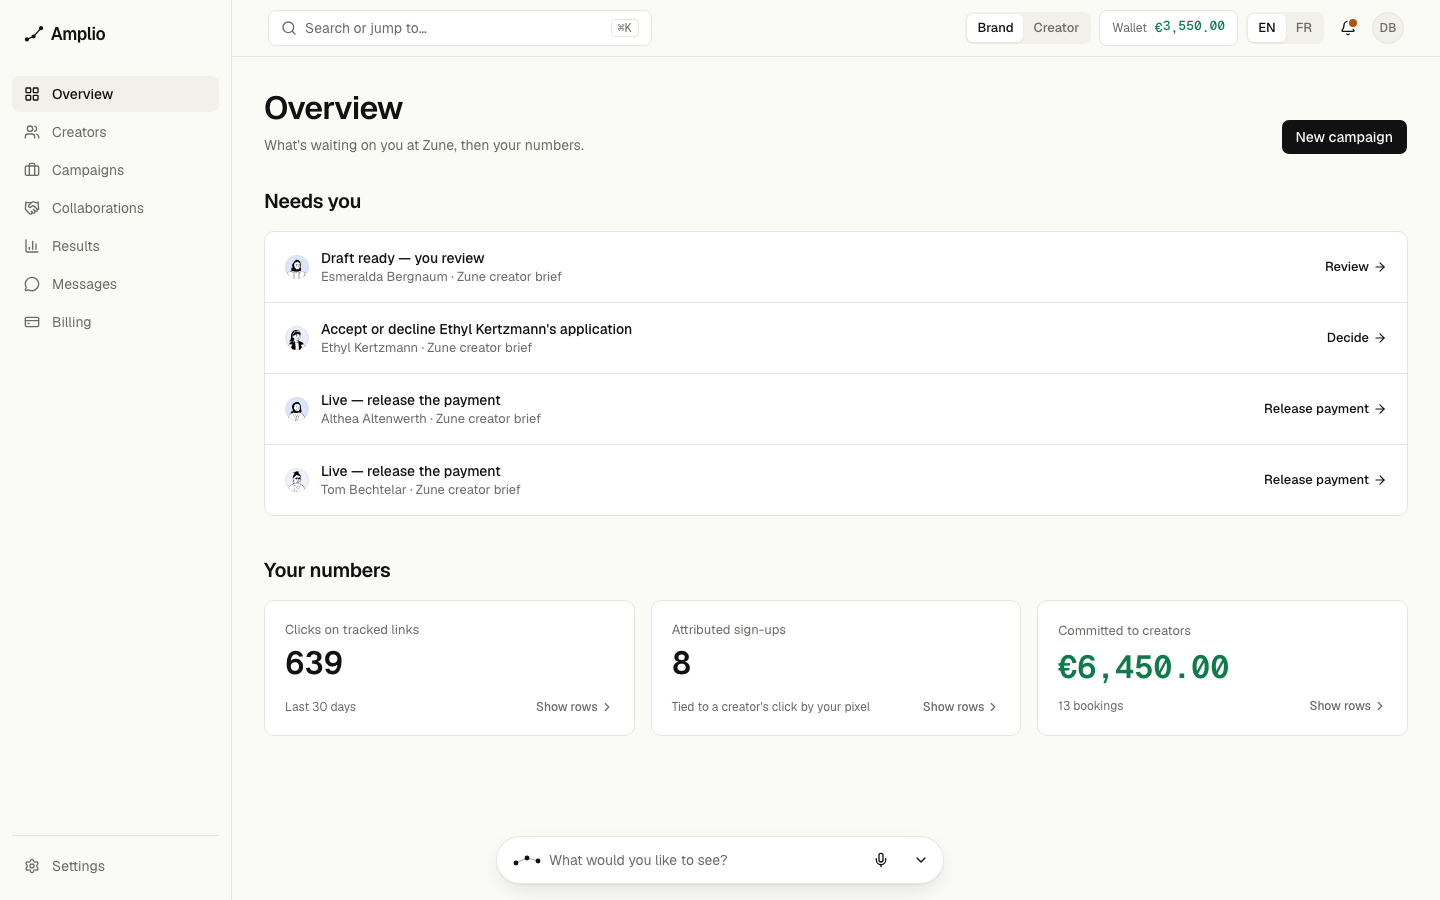
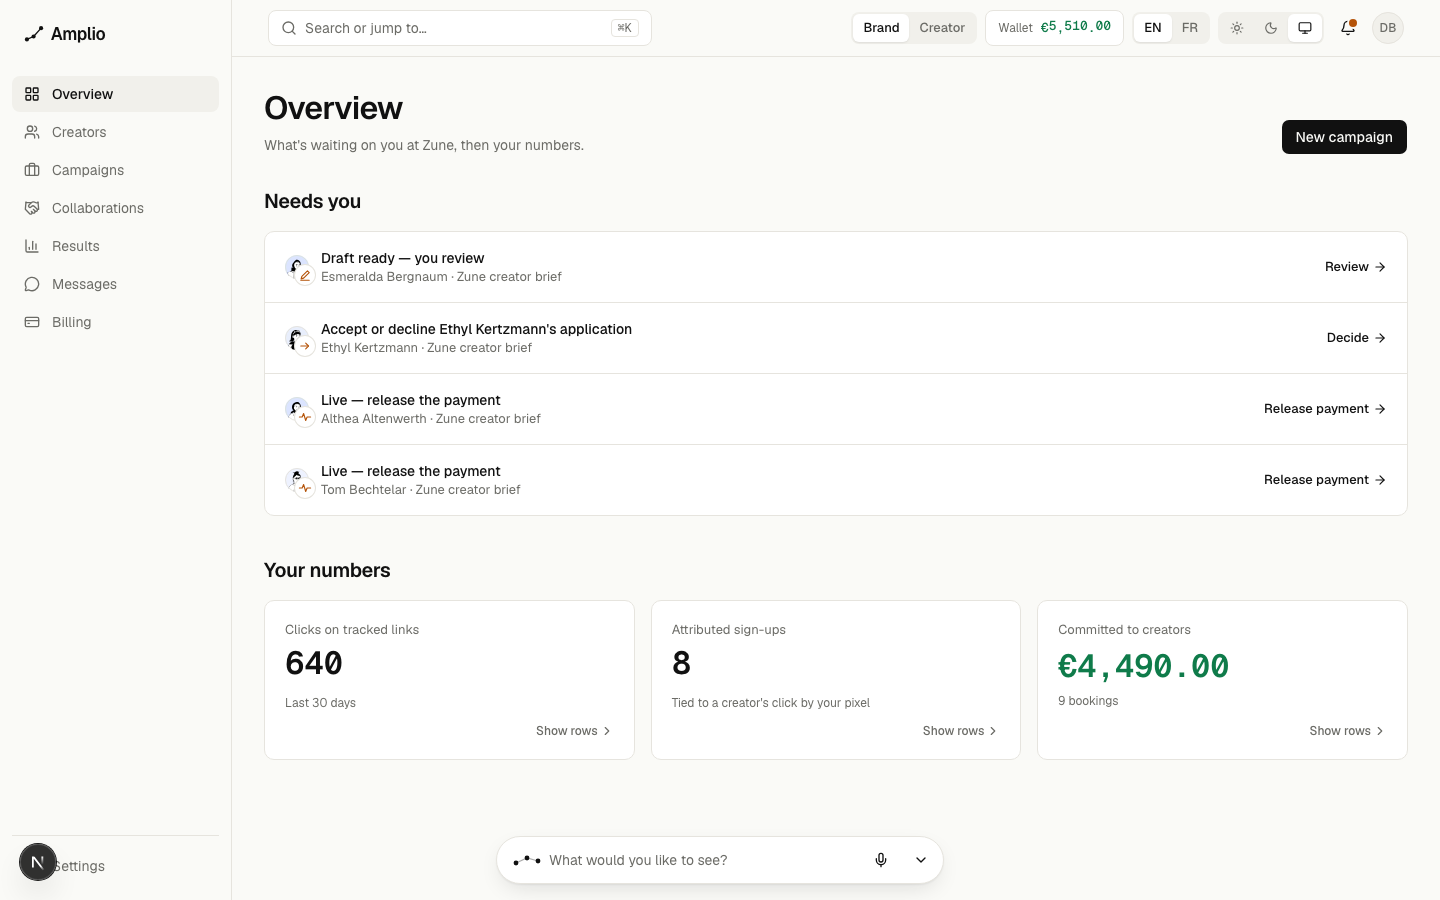
feat(brand): Needs you carries each item's state glyph
The Overview's list was plain avatars while every other collaboration row
draws its state. Each item now has the StatusGlyph on the creator's avatar,
in the attention colour (every item here is the brand's move), redrawn when
the state moves on. PAGES.md and the Overview screens updated (taken on a
local build with the demo brand).

diff --git a/src/features/workspace/components/brand-overview/NeedsYouList.tsx b/src/features/workspace/components/brand-overview/NeedsYouList.tsx
@@ -4,6 +4,7 @@ import { getFormatter, getTranslations } from "next-intl/server";
 import { PersonAvatar } from "@/components/ui/avatar";
 import { buttonVariants } from "@/components/ui/button";
 import { JoiningDotsScene } from "@/components/graphics/scenes";
+import { StatusGlyph } from "@/components/graphics/StatusGlyph";
 import { EmptyState } from "@/components/ui/empty-state";
 import type { CollaborationDto } from "@/features/collaborations/schemas";
 
@@ -41,7 +42,13 @@ export async function NeedsYouList({ items, lowWalletCents }: Props) {
           return (
             <li key={c.id} className="animate-rise" style={{ animationDelay: `${(i + 1) * 20}ms` }}>
               <Link href={`/brand/collaborations/${c.id}`} className="group flex flex-wrap items-center gap-3 px-5 py-4 outline-none transition-colors duration-(--duration-fast) ease-ledger hover:bg-tint focus-visible:bg-tint">
-                <PersonAvatar name={c.creatorName} src={c.creatorAvatarUrl} size="sm" />
+                {/* The state, drawn on the avatar's corner: it redraws when the state moves on. */}
+                <span className="relative shrink-0">
+                  <PersonAvatar name={c.creatorName} src={c.creatorAvatarUrl} size="sm" />
+                  <span className="absolute -right-1.5 -bottom-1.5 grid size-5 place-items-center rounded-full bg-surface text-attention ring-1 ring-rule" aria-hidden="true">
+                    <StatusGlyph key={c.status} status={c.status} className="size-3.5" />
+                  </span>
+                </span>
                 <span className="min-w-0 flex-1">
                   <span className="line-clamp-2 font-medium text-ink">{tc(`nextAction.brand.${c.status}.action`, vars)}</span>
                   <span className="block truncate text-small text-ink-muted">{c.creatorName} · {c.campaignName}</span>

diff --git a/docs/design/PAGES.md b/docs/design/PAGES.md
@@ -60,7 +60,8 @@ are the onboarding ones (`src/features/profile-fields`), so editing looks like c
 ### Overview — `/brand`
 One column: **Needs you** first — drafts to review, applicants to answer, live posts to pay,
 and a short wallet on top because it blocks every new invitation — each a ruled row with the
-next step in words and the button for it. Then three numbers (clicks, attributed sign-ups,
+next step in words and the button for it, the state drawn on the creator's avatar
+(envelope, pen, pulse…) so the kind of work reads before the words. Then three numbers (clicks, attributed sign-ups,
 committed spend), each opening the rows it is made of. The setup card shows only while
 setup is unfinished. People open the app to act; totals come second.
 
